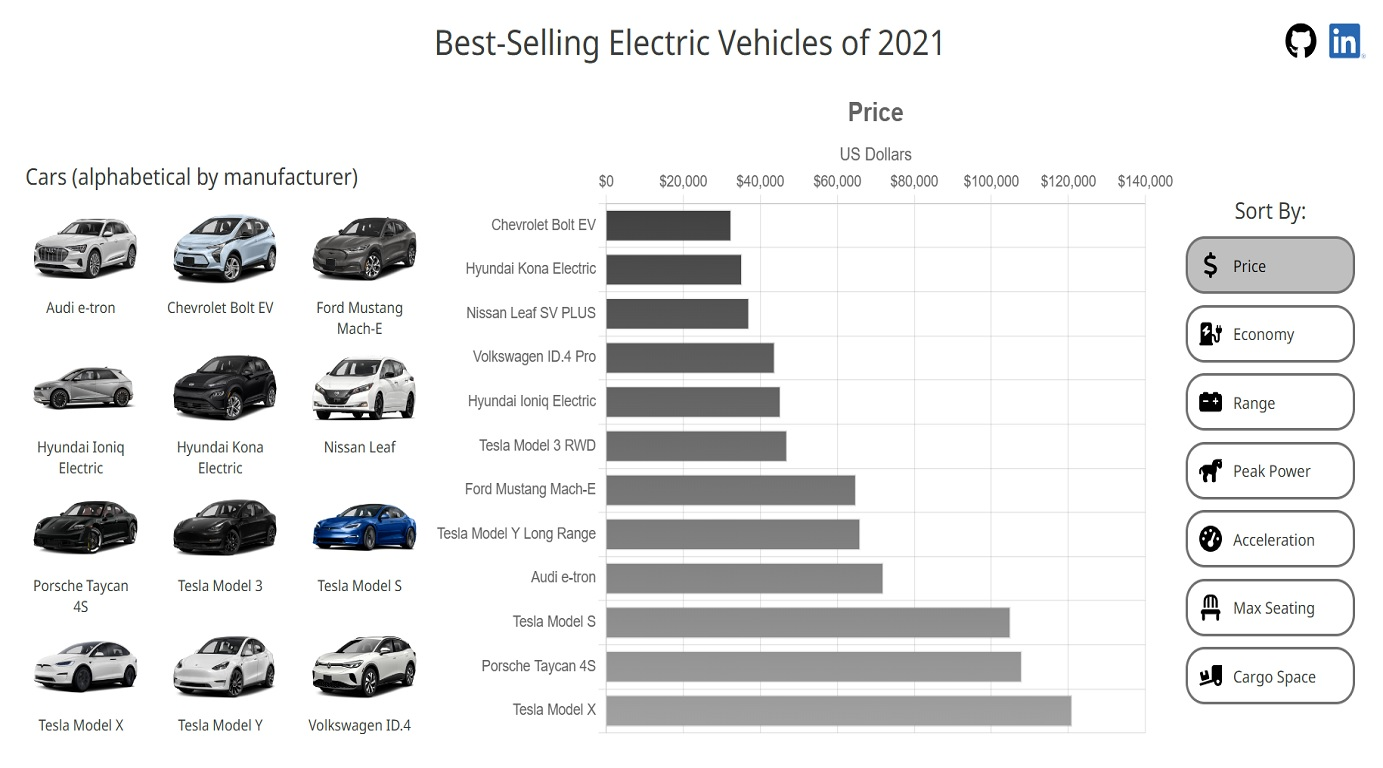
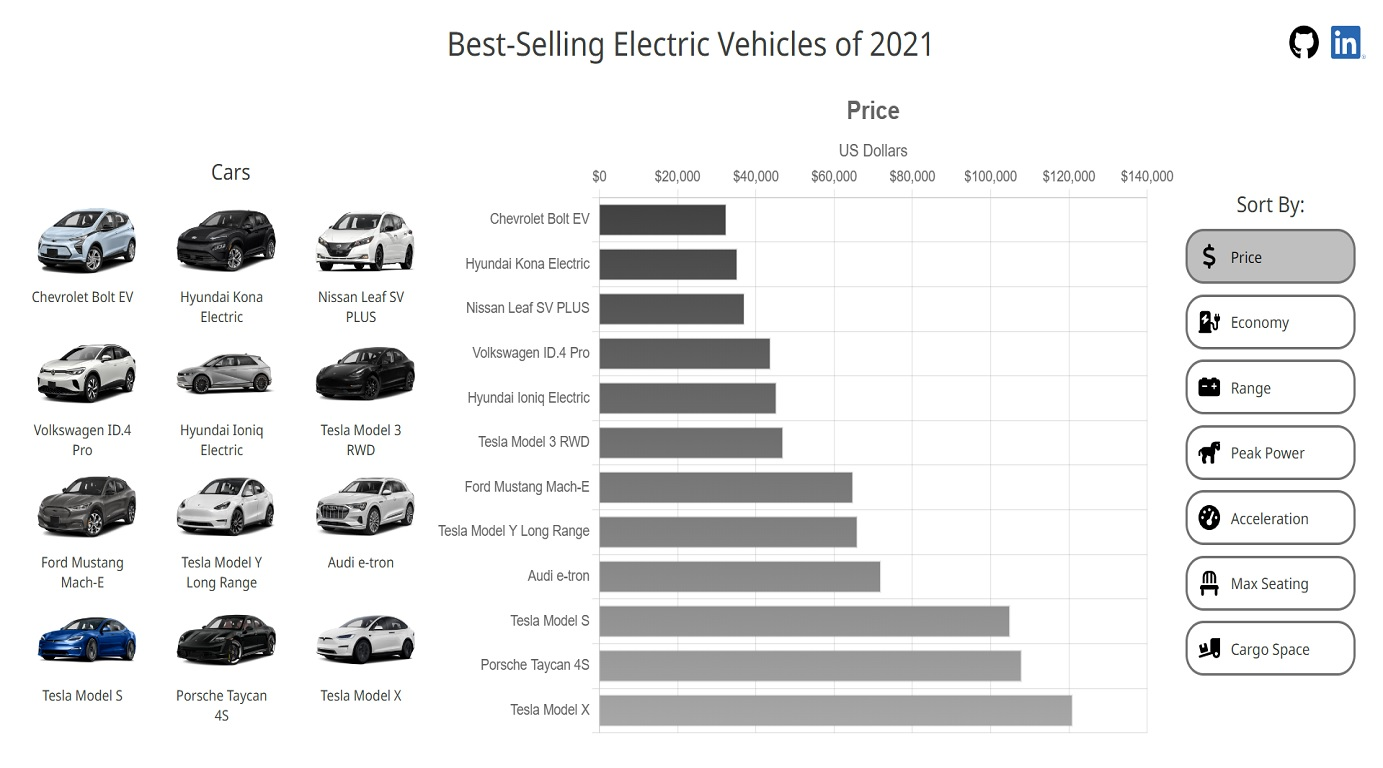
Update links and EV page

diff --git a/2021-Best-selling-EVs.html b/2021-Best-selling-EVs.html
@@ -54,14 +54,14 @@
 						<div class="inner">
 							<h1>Best-Selling Electric Vehicles of 2021</h1>
 							<span class="image main"><img src="images/EVss2full.jpg" alt="" /></span>
-							<p>This is a site I built with JavaScript, HTML5, CSS3, and the Chart.js library. Users can get information about, and compare through a bar chart, the best-selling electric vehicles of 2021 in the United States. Users can choose to sort chart data based on multiple car specification categories such as price, range, and passenger capacity. User selection will update the specification category and sort order of the chart data.</p>
+							<p>This is a site I built with JavaScript, HTML5, CSS3, and the Chart.js library. Users can get information about, and compare through a bar chart, the best-selling electric vehicles of 2021 in the United States. Users can choose to sort chart data based on multiple car specification categories such as price, range, and passenger capacity. User selection will update the specification category and sort order of the chart data as well as the car images.</p>
 							<div>Links:</div>
 							<ul>
 								<li>
-									<a href="https://jason330.github.io/2021-Best-selling-EVs/">Live site</a>
+									<a href="https://jason330.github.io/2021-Best-selling-EVs/" target="_blank">Live site</a>
 								</li>
 								<li>
-									<a href="https://github.com/jason330/2021-Best-selling-EVs">GitHub repository</a>
+									<a href="https://github.com/jason330/2021-Best-selling-EVs" target="_blank">GitHub repository</a>
 								</li>
 							</ul>
 							<!-- <p>Lorem ipsum dolor sit amet, consectetur adipiscing elit. Duis dapibus rutrum facilisis. Class aptent taciti sociosqu ad litora torquent per conubia nostra, per inceptos himenaeos. Etiam tristique libero eu nibh porttitor fermentum. Nullam venenatis erat id vehicula viverra. Nunc ultrices eros ut ultricies condimentum. Mauris risus lacus, blandit sit amet venenatis non, bibendum vitae dolor. Nunc lorem mauris, fringilla in aliquam at, euismod in lectus. Pellentesque habitant morbi tristique senectus et netus et malesuada fames ac turpis egestas. In non lorem sit amet elit placerat maximus. Pellentesque aliquam maximus risus, vel venenatis mauris vehicula hendrerit.</p>
@@ -115,7 +115,7 @@
 							</section>
 							<ul class="copyright">
 								<li>&copy; Untitled. All rights reserved</li>
-								<li>Original Design: <a href="http://html5up.net">HTML5 UP</a></li>
+								<li>Original Design: <a href="http://html5up.net" target="_blank">HTML5 UP</a></li>
 								<li>Modified by Jason Song</li>
 							</ul>
 						</div>

diff --git a/dot-catch.html b/dot-catch.html
@@ -58,10 +58,10 @@
 							<div>Links:</div>
 							<ul>
 								<li>
-									<a href="https://dot-catch.onrender.com/">Live site</a>
+									<a href="https://dot-catch.onrender.com/" target="_blank">Live site</a>
 								</li>
 								<li>
-									<a href="https://github.com/katiehan22/dot-catch">GitHub repository</a>
+									<a href="https://github.com/katiehan22/dot-catch" target="_blank">GitHub repository</a>
 								</li>
 							</ul>
 							<!-- <p>Lorem ipsum dolor sit amet, consectetur adipiscing elit. Duis dapibus rutrum facilisis. Class aptent taciti sociosqu ad litora torquent per conubia nostra, per inceptos himenaeos. Etiam tristique libero eu nibh porttitor fermentum. Nullam venenatis erat id vehicula viverra. Nunc ultrices eros ut ultricies condimentum. Mauris risus lacus, blandit sit amet venenatis non, bibendum vitae dolor. Nunc lorem mauris, fringilla in aliquam at, euismod in lectus. Pellentesque habitant morbi tristique senectus et netus et malesuada fames ac turpis egestas. In non lorem sit amet elit placerat maximus. Pellentesque aliquam maximus risus, vel venenatis mauris vehicula hendrerit.</p>
@@ -115,7 +115,7 @@
 							</section>
 							<ul class="copyright">
 								<li>&copy; Untitled. All rights reserved</li>
-								<li>Original Design: <a href="http://html5up.net">HTML5 UP</a></li>
+								<li>Original Design: <a href="http://html5up.net" target="_blank">HTML5 UP</a></li>
 								<li>Modified by Jason Song</li>
 							</ul>
 						</div>

diff --git a/GetTable.html b/GetTable.html
@@ -115,7 +115,7 @@
 							</section>
 							<ul class="copyright">
 								<li>&copy; Untitled. All rights reserved</li>
-								<li>Original Design: <a href="http://html5up.net">HTML5 UP</a></li>
+								<li>Original Design: <a href="http://html5up.net" target="_blank">HTML5 UP</a></li>
 								<li>Modified by Jason Song</li>
 							</ul>
 						</div>

diff --git a/index.html b/index.html
@@ -245,7 +245,7 @@
 							</section>
 							<ul class="copyright">
 								<li>&copy; Untitled. All rights reserved</li>
-								<li>Original Design: <a href="http://html5up.net">HTML5 UP</a></li>
+								<li>Original Design: <a href="http://html5up.net" target="_blank">HTML5 UP</a></li>
 								<li>Modified by Jason Song</li>
 							</ul>
 						</div>
